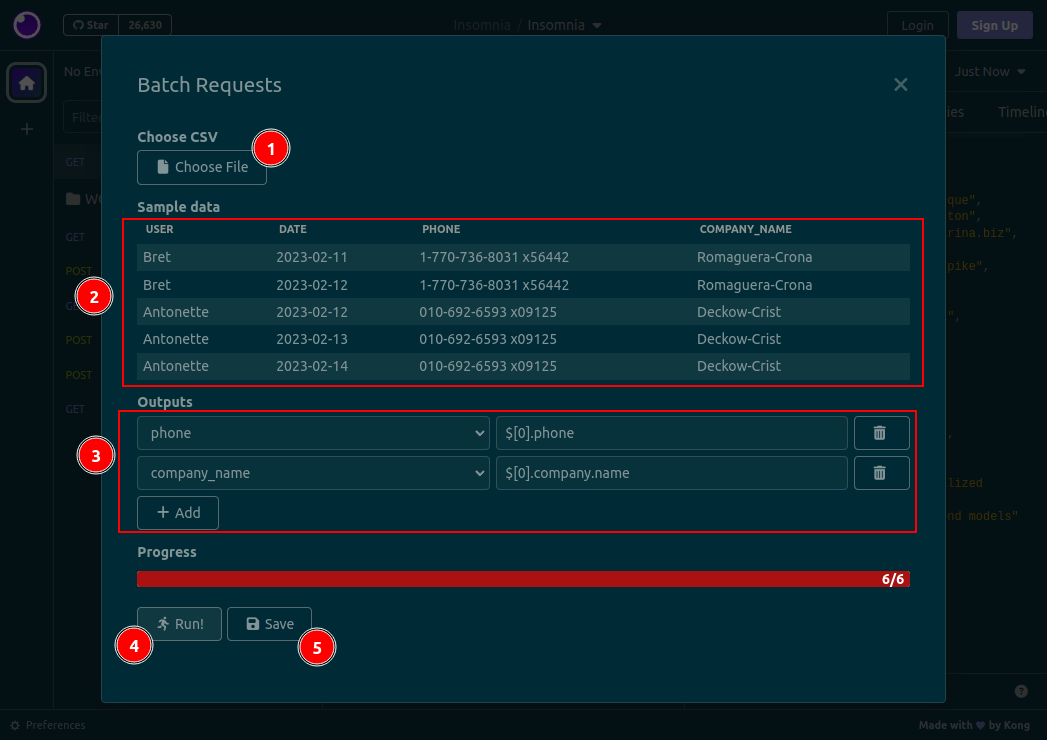
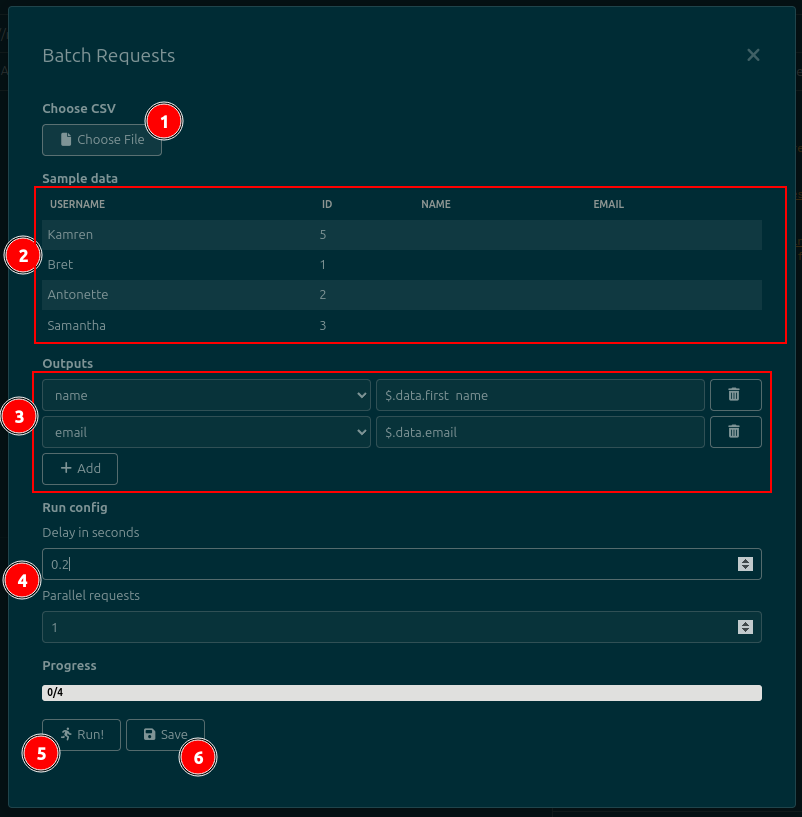
Update README and prep for release

diff --git a/README.md b/README.md
@@ -2,7 +2,14 @@
 
 [![npm](https://img.shields.io/npm/v/insomnia-plugin-batch-requests)](https://www.npmjs.com/package/insomnia-plugin-batch-requests) [![Coverage Status](https://coveralls.io/repos/github/jreyesr/insomnia-plugin-batch-requests/badge.svg)](https://coveralls.io/github/jreyesr/insomnia-plugin-batch-requests)
 
-The Batch Requests plugin for [Insomnia](https://insomnia.rest) adds a context menu option that lets you send a request repeatedly, changing parts of every request by variable data, taken from a CSV file. For every response, some data can be collected and added to the CSV file. See below for a diagram:
+The Batch Requests plugin for [Insomnia](https://insomnia.rest) adds the ability to send a request repeatedly, changing parts of every request by variable data, taken from a CSV file. For every response, some data can be collected and added to the CSV file.
+
+- Repeatedly send a request by reading data from a CSV file
+- Extract data from JSON responses and write it back to the CSV file
+- Works well if not using the plugin (when sending the request manually)
+- Add a delay between each request
+- Run multiple requests in parallel
+- Supports non-JSON responses too (but can't extract response data in such cases)
 
 ![A diagram displaying the flow of data in the plugin](images/flow.png)
 
@@ -16,34 +23,43 @@ Go to the `Application>Preferences` menu in Insomnia, then go to the `Plugins` t
 
 ## Usage
 
-The plugin adds a template tag to mark the places that you want to replace. To add it, press `Ctrl+Space`, search for the `Batch` tag and press `Enter`. Then, double click the tag to configure it.
+The plugin adds a template tag to mark the places that you want to replace. To add it, press `Ctrl+Space`, search for the `Batch` tag and press `Enter`. Then, double click the tag to configure it. The tag can be inserted anywhere in the request (e.g. in the URL, query parameters, headers, or body)
 
 ![A screenshot showing a template tag that marks a replacement location. It specifies the CSV column that will be used and a sample value that will be sent when manually sending the request](images/templatetag.png)
+
+![A screenshot showing the configuration UI for the template tag. It contains form fields to configure the column name that will be accessed from the CSV file, and a sample value that will be sent when manually sending the request](images/templatetag_config.png)
 
 When configuring the tag, set the following two values:
 
 - The name of the CSV column that will be replaced in this tag's location. Copy it from the first line of the CSV file, exactly (including capitalization)
 - A sample value. This value will be used when sending the request manually. This is the value that you would have to edit manually if this plugin did not exist.
 
-The live preview will always show the value of the `Sample value` field. The value will only vary when sending the request via the Batch Request dropdown option (see below).
+The live preview will always show the value of the `Sample value` field, and this same value will be replaced when sending the request manually (e.g. via Insomnia's main Send button) The value will only vary when sending the request via the Batch Request dropdown option (see below).
 
-![A screenshot showing the configuration UI for the template tag. It contains form fields to configure the column name that will be accessed from the CSV file, and a sample value that will be sent when manually sending the request](images/templatetag_config.png)
-
-The plugin also adds a context menu option to all requests. To see it, right-click a request, then select the `Batch Requests` option under the `Plugins` section. This will open the plugin dialog.
+The plugin also adds a context menu option to all requests. To see it, click on the dropdown arrow to the right of a request on the sidebar, then select the `Batch Requests` option. This will open the plugin dialog.
 
 ![A screenshot showing the context menu aded by the plugin. A request has been right-clicked, and the context menu contains a new "Batch Requests" option under the Plugins section](images/context_menu.png)
 
-On the plugin dialog (see the image below), you should:
+![A screenshot showing the main plugin UI. From top to bottom, there is a button to load a file, a table showing a preview of the data, a series of fields to specify output data, and a button to run the request multiple times](images/runner_ui.png)
+
+On the plugin dialog, you should:
 
 1. Select a CSV file using the button. The file should have one column for each different placeholder/template tag that you have selected, plus one column for each result that you want to extract from the responses. The response/output columns can be empty, since they will be filled by the plugin.
 2. Review the loaded data in the table. It will show the first five rows of the CSV file. It is provided as a sanity check, so that you can verify that the CSV is being parsed correctly.
-3. Configure the data that you want to output by adding `Outputs`. For each one, use the dropdown on the left to specify a CSV column, and write a JSONPath expression in the text field on the right. In the image below, the `$.total` field will be extracted to the `sales` column in the CSV file.
-4. Click the `Run!` button at the bottom of the dialog. It will only become active when you have chosen a file and provided at least one Output.
-5. Click the `Save` button to write the extracted data back to the CSV file, if you need it.
+3. (Optional) Configure the data that you want to output by adding `Outputs`. For each one, use the dropdown on the left to specify a CSV column, and write a JSONPath expression in the text field on the right. In the image below, the `$.total` field will be written to the `sales` column in the CSV file. This plugin uses [the `jsonpath-plus` syntax](https://www.npmjs.com/package/jsonpath-plus), which is [also used by Insomnia](https://docs.insomnia.rest/insomnia/responses#filter)
+4. Click the `Run!` button at the bottom of the dialog. It will only become active when you have chosen a file and (if any outputs exist) completely filled all Outputs.
+5. Click the `Save` button to write the extracted data back to the CSV file, if you need it. Wait until all requests have been performed (as indicated by the progress bar) before clicking this button.
 
-![A screenshot showing the main plugin UI. From top to bottom, there is a button to load a file, a table showing a preview of the data, a series of fields to specify output data, and a button to run the request multiple times](images/runner_ui.png)
+### Extra settings
 
-### Configuration
+There are two additional options that can be set when sending batch requests. They appear in the **Run Config** section, above the progress bar:
+
+![A screenshot with the extra settings marked. The settings are two numerical inputs titled "Delay in seconds" and "Parallel requests" respectively](images/extra_settings.png)
+
+- **Delay in seconds** (available since `v1.1.0`): Inserts a delay _before_ sending each request. It's useful if the remote API enforces a rate limit or it's otherwise desired to throttle requests. By default it's set to 0. Can also be altered for the entire Request Collection (see [below](#global-configuration))
+- **Parallel requests** (available since `v1.3.0`): Controls the number of requests that can be in flight at the same time. If set to a value greater than 1, it'll send multiple requests in parallel. Once a request is done, another one will start. By default it's set to 1
+
+### Global configuration
 
 Since `v1.2.0`, there is a Global Configuration dialog in which you can select a default request delay, in case you usually work with servers that require a delay between requests.
 
@@ -72,7 +88,7 @@ Since `v1.2.0`, there is a Global Configuration dialog in which you can select a
 10. Make commit.
 11. GOTO 6
 12. Update the package version in `package.json`.
-13. When done, submit a PR and merge it. The CD should pick it up, compile a package and upload it to NPM.
+13. When done, submit a PR and merge it. If releasing a new version, see [the next section](#releasing).
 
 ## Releasing
 

diff --git a/CHANGELOG.md b/CHANGELOG.md
@@ -1,16 +1,43 @@
+# v1.3.0
+
+**Date:** 2024/01/20
+
+### New features
+
+- Add a configuration option to set default delay for all requests ([#11](https://github.com/jreyesr/insomnia-plugin-batch-requests/pull/11))
+
+# v1.2.0
+
+**Date:** 2023/03/21
+
+### New features
+
+- Add a configuration option to set default delay for all requests ([#7](https://github.com/jreyesr/insomnia-plugin-batch-requests/pull/7))
+
+# v1.1.1
+
+**Date:** 2023/03/21
+
+### Bugfixes
+
+- Fix plugin freezing after sending the first request when response isn't valid JSON ([#4](https://github.com/jreyesr/insomnia-plugin-batch-requests/issues/4))
+
 # v1.1.0
+
 **Date:** 2023/03/18
 
 ### New features
 
-* Added a configuration option to set a delay between consecutive requests ([#1](https://github.com/jreyesr/insomnia-plugin-batch-requests/issues/1))
+- Added a configuration option to set a delay between consecutive requests ([#1](https://github.com/jreyesr/insomnia-plugin-batch-requests/issues/1))
 
 # v1.0.1
+
 **Date:** 2023/02/19
 
 Initial version
 
 # v1.0.0
+
 **Date:** 2023/02/18
 
 ~~Initial version~~
